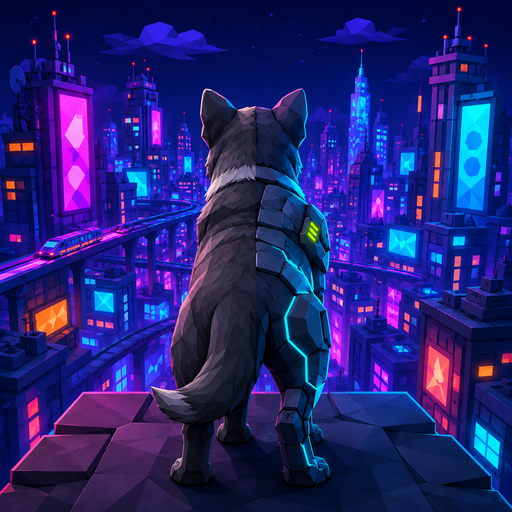
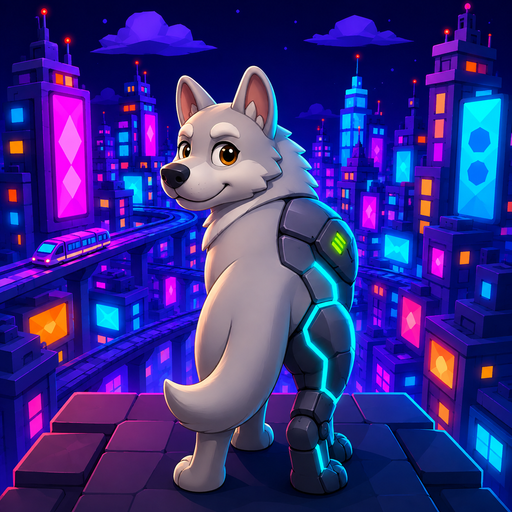
Publica Docalio e Gramelio e atualiza Dogolio

diff --git a/src/content/projects.ts b/src/content/projects.ts
@@ -11,8 +11,9 @@ import type { Project, ProjectId } from './types';
  * Gramelio, a fonte é a descrição do titular em 19/08/2026, e ela descreve o desenho do jogo:
  * por isso o produto tem `pilares` e continua com `recursos` vazio.
  *
- * `plataformas` fica vazio de propósito: `INVENTARIO_RELEASE.md` registra que o pacote de produção
- * do Revalio ainda não foi gerado e que o iOS depende de macOS/Xcode. Nenhuma loja foi anunciada.
+ * Atualização do titular em 03/09/2026: Docalio e Gramelio estão disponíveis.
+ * Sem URLs de loja fornecidas, ficam sem selos de download. Isso não redefine datas de
+ * lançamento, não atesta revisão jurídica e não altera o contrato de dados dos jogos.
  */
 
 export const revalio: Project = {
@@ -101,14 +102,14 @@ export const docalio: Project = {
   id: 'docalio',
   nome: 'Docalio',
   indice: 'EXPERIMENTO 02',
-  estado: 'EM FORMAÇÃO',
+  estado: 'ATIVO',
   categoria: 'JOGO DE ESTRATÉGIA MÉDICA',
-  status: 'EM DESENVOLVIMENTO',
+  status: 'DISPONÍVEL',
   frase: 'Cada paciente muda a história.',
   descricao:
     'Um jogo de estratégia por níveis: cada plantão traz pacientes que precisam ser salvos a tempo. O segredo não é a rapidez, e sim saber priorizar na hora da emergência.',
   cta: 'CONHECER DOCALIO',
-  notaCurta: 'Conceito em desenvolvimento. Escopo, plataformas e lançamento ainda não foram anunciados.',
+  notaCurta: 'Já disponível. Estratégia com casos ficcionais; não oferece orientação para pacientes reais.',
   eyebrow: 'EXPERIMENTO 02 / ESTRATÉGIA MÉDICA',
   subtitulo: 'Cada paciente muda a história.',
   introducao:
@@ -123,7 +124,7 @@ export const docalio: Project = {
    */
   recursos: [],
   aviso:
-    'Docalio é uma experiência de entretenimento e aprendizagem em desenvolvimento. Casos e personagens são ficcionais. O produto não oferece diagnóstico, prescrição ou orientação para pacientes reais e não substitui formação, supervisão profissional ou protocolos oficiais.',
+    'Docalio é uma experiência de entretenimento e aprendizagem. Casos e personagens são ficcionais. O produto não oferece diagnóstico, prescrição ou orientação para pacientes reais e não substitui formação, supervisão profissional ou protocolos oficiais.',
   banner: {
     src: '/projects/docalio/docalio-banner-final.png',
     alt: 'Key art do Docalio: cena low-poly de uma clínica de campanha vista de cima, com o médico central de uniforme branco e amarelo entre estações de atendimento. A arte traz o título DOCALIO e a assinatura Blajeen Labs.',
@@ -138,30 +139,27 @@ export const docalio: Project = {
   galeria: [],
   galeriaBloqueador: 'conceptArtDocalio',
   plataformas: [],
-  // Ainda sem build distribuído: as duas lojas entram como "em breve", sem data.
-  disponibilidade: [
-    { loja: 'appStore', nome: 'App Store', estado: 'em-breve', url: null },
-    { loja: 'googlePlay', nome: 'Google Play', estado: 'em-breve', url: null },
-  ],
-  ogDescricao: 'Estratégia e prioridade na emergência. Experimento 02 da Blajeen Labs.',
+  // Disponibilidade confirmada pelo titular; lojas e URLs específicas ainda não confirmadas.
+  disponibilidade: [],
+  ogDescricao: 'Docalio já está disponível: estratégia e prioridade na emergência, com casos ficcionais.',
   metaTitulo: 'Docalio — Blajeen Labs',
   metaDescricao:
-    'Docalio é o jogo de estratégia médica em desenvolvimento na Blajeen Labs: salvar todos os pacientes a tempo depende de saber priorizar.',
+    'Docalio já está disponível. O jogo de estratégia médica da Blajeen Labs desafia você a priorizar o atendimento de pacientes ficcionais a cada plantão.',
 };
 
 export const gramelio: Project = {
   id: 'gramelio',
   nome: 'Gramelio',
   indice: 'EXPERIMENTO 03',
-  estado: 'EM FORMAÇÃO',
+  estado: 'ATIVO',
   categoria: 'JOGO CASUAL PARA CELULAR',
-  status: 'EM DESENVOLVIMENTO',
+  status: 'DISPONÍVEL',
   frase: 'Coma a grama, encha o estômago, volte ao curral.',
   descricao:
     'Um jogo casual em que um toque na tela move o animal pelo mapa. Na campanha da vaca, a regra é fácil de entender e difícil de otimizar: comer a grama certa, controlar o estômago e voltar ao curral a tempo de produzir leite.',
   cta: 'CONHECER GRAMELIO',
   notaCurta:
-    'Jogo em desenvolvimento. Ainda não há build público, plataforma ou data de lançamento anunciada.',
+    'Já disponível. Um jogo casual de fazenda para planejar caminhos, cuidar do estômago e voltar ao curral.',
   eyebrow: 'EXPERIMENTO 03 / JOGO CASUAL',
   subtitulo: 'Coma a grama, encha o estômago, volte ao curral.',
   introducao:
@@ -172,9 +170,9 @@ export const gramelio: Project = {
     'A vaca é a primeira campanha. O laboratório desenha outras, com outros animais e outras regras de fazenda.',
   ],
   /*
-   * Vazio de propósito. Em 19/08/2026 `C:\dev\gramelio` contém somente arte: não há build,
-   * código ou pacote a auditar, então nada pode ser apresentado como "o que existe hoje".
-   * O que o titular descreveu é o desenho do jogo, e ele vive em `pilares`.
+   * Os pilares apresentam a experiência, sem prometer contagens ou preços.
+   * Ciclo, progressão e cosméticos: `C:\dev\gramelio\docs\00-estado-do-projeto.md`.
+   * Disponibilidade confirmada pelo titular em 03/09/2026.
    */
   recursos: [],
   pilares: [
@@ -206,11 +204,11 @@ export const gramelio: Project = {
     {
       titulo: 'Customização',
       texto:
-        'Chapéus, acessórios e currais para deixar a vaca e a fazenda com a sua cara. A loja de cosméticos está no desenho; moeda, preço e forma de compra ainda não foram definidos.',
+        'Chapéus, acessórios e currais para deixar a vaca e a fazenda com a sua cara.',
     },
   ],
   aviso:
-    'Gramelio é um jogo de entretenimento em desenvolvimento. Nada nesta página descreve um aplicativo distribuído: não existe build público, ficha de loja, preço, plataforma ou data de lançamento. Fazendas, animais e missões são ficcionais e não representam prática agropecuária ou cuidado animal real.',
+    'Gramelio é um jogo de entretenimento. Fazendas, animais e missões são ficcionais e não representam prática agropecuária ou cuidado animal real.',
   banner: {
     src: '/projects/gramelio/gramelio-banner-final.png',
     alt: 'Key art do Gramelio: uma vaca de desenho mastigando grama no centro de uma fazenda ensolarada, com celeiro, moinho e riacho ao fundo. A arte traz o título GRAMELIO em uma placa de madeira, o lema "Coma. Planeje. Produza. Repita!", uma fileira de cinco mundos na base e a assinatura Blajeen Labs sobre o céu, no alto à esquerda.',
@@ -225,15 +223,12 @@ export const gramelio: Project = {
   galeria: [],
   galeriaBloqueador: 'arteGramelio',
   plataformas: [],
-  // Sem build e sem ficha: as duas lojas entram como "em breve", sem data.
-  disponibilidade: [
-    { loja: 'appStore', nome: 'App Store', estado: 'em-breve', url: null },
-    { loja: 'googlePlay', nome: 'Google Play', estado: 'em-breve', url: null },
-  ],
-  ogDescricao: 'Um toque, um pasto e um estômago para administrar. Experimento 03 da Blajeen Labs.',
+  // Disponibilidade confirmada pelo titular; lojas e URLs específicas ainda não confirmadas.
+  disponibilidade: [],
+  ogDescricao: 'Gramelio já está disponível: um toque, um pasto e um estômago para administrar.',
   metaTitulo: 'Gramelio — Blajeen Labs',
   metaDescricao:
-    'Gramelio é o jogo casual em desenvolvimento na Blajeen Labs: um toque move o animal, a grama vira leite no curral e cada mapa é uma fase curta de decisões.',
+    'Gramelio já está disponível. No jogo casual de fazenda da Blajeen Labs, um toque move o animal, a grama vira leite no curral e cada mapa traz novas decisões.',
 };
 
 export const catelio: Project = {
@@ -359,7 +354,7 @@ export const dogolio: Project = {
     altura: 941,
   },
   icone: {
-    src: '/projects/dogolio/dogolio-icon-cyberpunk-gray-512.webp',
+    src: '/projects/dogolio/dogolio-icon-cartoon-light-gray-512.webp',
     alt: '',
     tamanho: 512,
   },

diff --git a/src/content/content.test.ts b/src/content/content.test.ts
@@ -70,14 +70,17 @@ describe('projetos', () => {
     expect(docalio.lancamento).toBeUndefined();
     expect(gramelio.lancamento).toBeUndefined();
     expect(revalio.estado).toBe('ATIVO');
-    expect(docalio.estado).toBe('EM FORMAÇÃO');
-    expect(gramelio.estado).toBe('EM FORMAÇÃO');
+    expect(docalio.estado).toBe('ATIVO');
+    expect(gramelio.estado).toBe('ATIVO');
+    expect(docalio.status).toBe('DISPONÍVEL');
+    expect(gramelio.status).toBe('DISPONÍVEL');
   });
 
   it('não transforma disponibilidade em link antes de ter a URL da ficha', () => {
     // Um botão de loja que não abre a loja é pior do que a ausência dele.
     for (const projeto of projetos) {
-      expect(projeto.disponibilidade).toHaveLength(2);
+      expect(projeto.disponibilidade.length).toBeLessThanOrEqual(2);
+      expect(new Set(projeto.disponibilidade.map((loja) => loja.loja)).size).toBe(projeto.disponibilidade.length);
       for (const loja of projeto.disponibilidade) {
         if (loja.url === null) continue;
         expect(loja.url).toMatch(/^https:\/\//);
@@ -110,7 +113,7 @@ describe('projetos', () => {
      * dos dois campos veio impedir.
      */
     for (const projeto of projetos) {
-      const temBuild = projeto.disponibilidade.some((loja) => loja.estado === 'disponivel');
+      const temBuild = statusVisivel(projeto) === 'DISPONÍVEL';
       if (!temBuild) expect(projeto.recursos, projeto.nome).toEqual([]);
     }
 
@@ -164,11 +167,14 @@ describe('projetos', () => {
     expect(docalio.aviso).toMatch(/não oferece diagnóstico/i);
   });
 
-  it('avisa que o Gramelio ainda não é um aplicativo distribuído', () => {
-    // O jogo não é médico; o risco aqui é outro — parecer um app que já dá para baixar.
-    expect(gramelio.aviso).toMatch(/não existe build público/i);
+  it('apresenta Gramelio e Docalio disponíveis sem inventar links ou retirar os avisos', () => {
+    for (const projeto of [gramelio, docalio]) {
+      expect(projeto.aviso).not.toMatch(/em desenvolvimento|não existe build público/i);
+      expect(projeto.notaCurta).toMatch(/já disponível/i);
+      expect(projeto.disponibilidade).toEqual([]);
+    }
     expect(gramelio.aviso).toMatch(/ficcionais/i);
-    expect(gramelio.notaCurta).toMatch(/desenvolvimento/i);
+    expect(docalio.aviso).toMatch(/não oferece diagnóstico/i);
     expect(dogolio.aviso).toMatch(/cachorro caramelo/i);
   });
 
@@ -297,8 +303,9 @@ describe('seções da home', () => {
 
     expect(statusVisivel(revalio, vespera)).toBe('EM DESENVOLVIMENTO');
     expect(statusVisivel(revalio, noDia)).toBe('DISPONÍVEL');
-    // O Docalio não tem data, então nunca vira disponível sozinho.
-    expect(statusVisivel(docalio, noDia)).toBe('EM DESENVOLVIMENTO');
+    // Docalio tem confirmação direta do titular, sem uma data de estreia inventada.
+    expect(statusVisivel(docalio)).toBe('DISPONÍVEL');
+    expect(statusVisivel(gramelio)).toBe('DISPONÍVEL');
   });
 
   it('não anuncia loja antes da data de lançamento', () => {

diff --git a/src/components/projects/ProjectPage.tsx b/src/components/projects/ProjectPage.tsx
@@ -20,6 +20,7 @@ export function ProjectPage({ projeto }: { projeto: Project }) {
   const rotas = rotasDoProjeto[projeto.id];
   const proximo = proximoProjeto(projeto);
   const pilares = projeto.pilares ?? [];
+  const disponivel = statusVisivel(projeto) === 'DISPONÍVEL';
 
   /*
    * Os índices são numerados a partir das seções que realmente existem. Recursos, desenho e
@@ -133,12 +134,12 @@ export function ProjectPage({ projeto }: { projeto: Project }) {
       ) : null}
 
       {pilares.length > 0 ? (
-        <Section indice={`${indice('desenho')} / NO DESENHO`} rotuladaPor="desenho-titulo">
+        <Section indice={`${indice('desenho')} / ${disponivel ? 'A EXPERIÊNCIA' : 'NO DESENHO'}`} rotuladaPor="desenho-titulo">
           <h2
             id="desenho-titulo"
             className="max-w-[18ch] text-[clamp(1.8rem,4vw,3rem)] leading-[1.04] tracking-[-0.045em]"
           >
-            O que o jogo está sendo desenhado para ser
+            {disponivel ? 'A experiência do jogo' : 'O que o jogo está sendo desenhado para ser'}
           </h2>
 
           {/* Mesma gramática da lista de recursos, com um rótulo que não confunde plano com build. */}
@@ -161,11 +162,11 @@ export function ProjectPage({ projeto }: { projeto: Project }) {
             ))}
           </ul>
 
-          <p className="medida-texto mt-8 text-sm leading-relaxed text-mineral-dim">
+          {!disponivel ? <p className="medida-texto mt-8 text-sm leading-relaxed text-mineral-dim">
             Esta lista é o desenho do jogo, não uma lista de recursos prontos. Ainda não existe
             build público, e o que estiver implementado passa a ser descrito como tal quando houver
             um aplicativo para auditar.
-          </p>
+          </p> : null}
         </Section>
       ) : null}
 

diff --git a/src/content/news.ts b/src/content/news.ts
@@ -25,6 +25,29 @@ export type Novidade = {
 
 export const novidades: readonly Novidade[] = [
   {
+    id: 'gramelio-disponivel',
+    data: '2026-09-03',
+    rotulo: 'Lançamento',
+    projeto: 'gramelio',
+    titulo: 'Gramelio já está disponível',
+    texto: [
+      'O Gramelio saiu do laboratório. Um jogo casual de fazenda em que cada toque é uma decisão: planejar o caminho, comer a grama, administrar o estômago e voltar ao curral para produzir leite.',
+      'Uma experiência para quem gosta de partidas curtas e desafios de planejamento, com personalidade, descoberta e espaço para jogar no próprio ritmo. Conheça o jogo e encontre os canais de suporte na página do Gramelio.',
+    ],
+  },
+  {
+    id: 'docalio-disponivel',
+    data: '2026-09-03',
+    rotulo: 'Lançamento',
+    projeto: 'docalio',
+    titulo: 'Docalio já está disponível',
+    texto: [
+      'Cada paciente muda a história — e cada prioridade muda o plantão. Docalio já está disponível: um jogo de estratégia médica em que a ordem dos atendimentos faz parte do desafio.',
+      'Para quem gosta de pensar sob pressão e encontrar a melhor sequência de decisões. Conheça a proposta e os canais de suporte na página do Docalio.',
+      'Casos e personagens são ficcionais. O jogo não oferece diagnóstico, prescrição ou orientação para pacientes reais.',
+    ],
+  },
+  {
     id: 'saas-ativos-setembro-2026',
     data: '2026-09-02',
     rotulo: 'SaaS disponíveis',

diff --git a/src/content/news.test.ts b/src/content/news.test.ts
@@ -41,13 +41,25 @@ describe('novidades', () => {
     expect(texto).toMatch(/data de lançamento/i);
   });
 
-  it('não promete data de lançamento dos jogos sem build', () => {
+  it('preserva os registros históricos anteriores ao lançamento', () => {
     for (const id of ['docalio', 'gramelio'] as const) {
-      const item = novidades.find((novidade) => novidade.projeto === id);
+      const item = novidades.find((novidade) => novidade.projeto === id && novidade.data < '2026-09-03');
       const texto = item?.texto.join(' ') ?? '';
       expect(texto, id).toMatch(/ainda não há build público/i);
       expect(texto, id).not.toMatch(/lançamento em|chega em|previs[ãa]o para/i);
     }
+  });
+
+  it('publica um anúncio de disponibilidade para cada jogo confirmado', () => {
+    const agora = novidadesPublicadas(new Date('2026-09-03T12:00:00Z'));
+    for (const id of ['docalio', 'gramelio'] as const) {
+      const itens = agora.filter((item) => item.id === `${id}-disponivel`);
+      expect(itens).toHaveLength(1);
+      expect(itens[0]).toMatchObject({ projeto: id, rotulo: 'Lançamento', data: '2026-09-03' });
+      expect(itens[0]!.titulo).toMatch(/já está disponível/);
+      expect(itens[0]!.texto.join(' ')).not.toMatch(/App Store|Google Play|\d+ fases|R\$/);
+    }
+    expect(new Set(novidades.map((item) => item.id)).size).toBe(novidades.length);
   });
 
   it('escreve a data por extenso em português', () => {

diff --git a/src/content/types.ts b/src/content/types.ts
@@ -35,11 +35,11 @@ export type Recurso = {
 };
 
 /**
- * Pilar de desenho de um jogo que ainda não tem build público.
+ * Pilar da experiência de um jogo, apresentado conforme o estado do produto.
  *
  * Existe para separar duas coisas que o site não pode confundir: o que já roda no aplicativo
  * (`recursos`, apresentado como "o que existe no build hoje") e o que o jogo está sendo desenhado
- * para ser. A página rotula o bloco como desenho, não como recurso pronto.
+ * para ser. Produtos em desenvolvimento continuam rotulados como desenho.
  */
 export type Pilar = {
   readonly titulo: string;
@@ -72,8 +72,8 @@ export type Project = {
   /** Vazio quando nada foi confirmado no build e aprovado para comunicação. */
   readonly recursos: readonly Recurso[];
   /**
-   * O desenho do jogo, para produtos que ainda não têm build público. Nunca substitui `recursos`:
-   * os dois blocos existem separados porque a página precisa dizer qual é qual.
+   * Pilares da experiência. Em produtos em desenvolvimento, são explicitamente apresentados
+   * como desenho. Não substituem o inventário técnico auditado de `recursos`.
    */
   readonly pilares?: readonly Pilar[];
   readonly aviso: string;

diff --git a/src/lib/image-delivery.test.ts b/src/lib/image-delivery.test.ts
@@ -11,7 +11,7 @@ describe('Entrega de imagens', () => {
   });
 
   it('usa o novo ícone versionado do Dogolio no site e no compartilhamento', () => {
-    expect(dogolio.icone?.src).toBe('/projects/dogolio/dogolio-icon-cyberpunk-gray-512.webp');
+    expect(dogolio.icone?.src).toBe('/projects/dogolio/dogolio-icon-cartoon-light-gray-512.webp');
     expect(OG.dogolio).toBe(dogolio.icone?.src);
     expect(existsSync(join(process.cwd(), 'public', OG.dogolio))).toBe(true);
   });

diff --git a/src/content/estado-do-projeto.ts b/src/content/estado-do-projeto.ts
@@ -28,6 +28,6 @@ export function disponibilidadeVisivel(
   projeto: Project,
   agora: Date = new Date(),
 ): readonly Disponibilidade[] {
-  if (jaLancou(projeto, agora)) return projeto.disponibilidade;
+  if (statusVisivel(projeto, agora) === 'DISPONÍVEL') return projeto.disponibilidade;
   return projeto.disponibilidade.map((loja) => ({ ...loja, estado: 'em-breve' as const }));
 }

diff --git a/src/lib/metadata.ts b/src/lib/metadata.ts
@@ -7,7 +7,7 @@ export const OG = {
   docalio: '/og/docalio.png',
   gramelio: '/og/gramelio.png',
   catelio: '/projects/catelio/catelio-icon-512.png',
-  dogolio: '/projects/dogolio/dogolio-icon-cyberpunk-gray-512.webp',
+  dogolio: '/projects/dogolio/dogolio-icon-cartoon-light-gray-512.webp',
   morvelio: '/projects/morvelio/morvelio-icon-512.png',
 } as const;
 

diff --git a/src/content/home.ts b/src/content/home.ts
@@ -24,7 +24,7 @@ export const laboratorio = {
 export const experimentos = {
   id: 'jogos',
   indice: '04 / JOGOS',
-  titulo: 'Cinco mundos. Cinco perguntas diferentes.',
+  titulo: 'Seis mundos. Seis perguntas diferentes.',
 } as const;
 
 export const produtosComerciais = {

diff --git a/docs/ATUALIZACAO-JOGOS-2026-09-03.md b/docs/ATUALIZACAO-JOGOS-2026-09-03.md
@@ -1,0 +1,11 @@
+# Jogos — atualização confirmada pelo titular
+
+Decisões de 3 de setembro de 2026, prevalecentes sobre o estado de pré-produção registrado nos documentos originais:
+
+- Docalio e Gramelio estão disponíveis. O titular pediu essa alteração e os respectivos anúncios em Novidades.
+- O titular confirmou que não tem os links de loja e pediu que fiquem sem eles por enquanto. Não apresentar botões falsos, pesquisas genéricas, URLs deduzidas ou selos que prometam uma loja específica.
+- A data dos anúncios é a data desta publicação editorial, não uma data de estreia inferida.
+- Preservar as notícias antigas datadas, os documentos legais e os contratos de dados. A mudança de status não equivale a uma auditoria jurídica ou do build distribuído.
+- O Gramelio apresenta os pilares como experiência do jogo; não deve mais afirmar na página comercial que não existe aplicativo público. A implementação do ciclo e dos cosméticos está documentada em `C:\dev\gramelio\docs\00-estado-do-projeto.md`.
+- Ícone aprovado do Dogolio: `C:\dev\dogolio\dogolio-icon-cartoon-cinza-claro-v3.png`, com cachorro cinza-claro cartoon olhando para a câmera sobre a cidade cyberpunk. Original e exportações foram copiados para a pasta do jogo; o site usa `dogolio-icon-cartoon-light-gray-512.webp` para evitar cache da versão anterior.
+- Nenhum arquivo do aplicativo Revalio foi alterado. Os jogos Catelio, Dogolio e Morvelio continuam em desenvolvimento.
